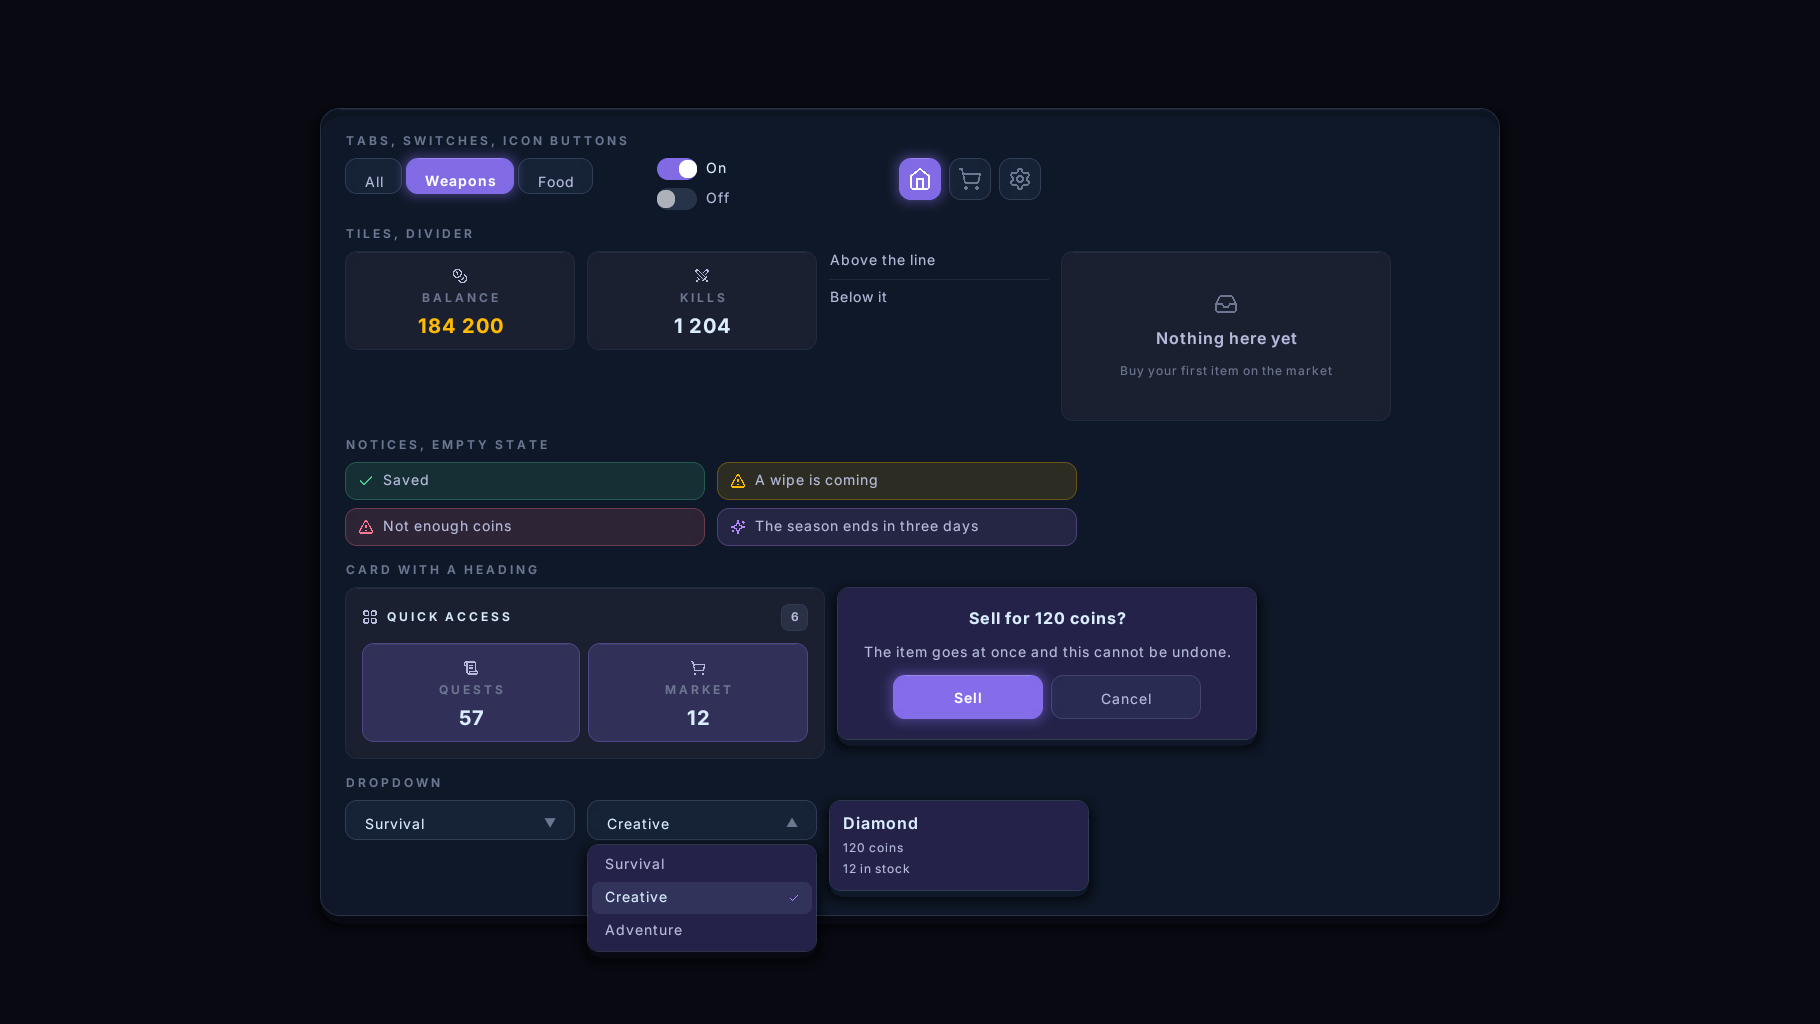
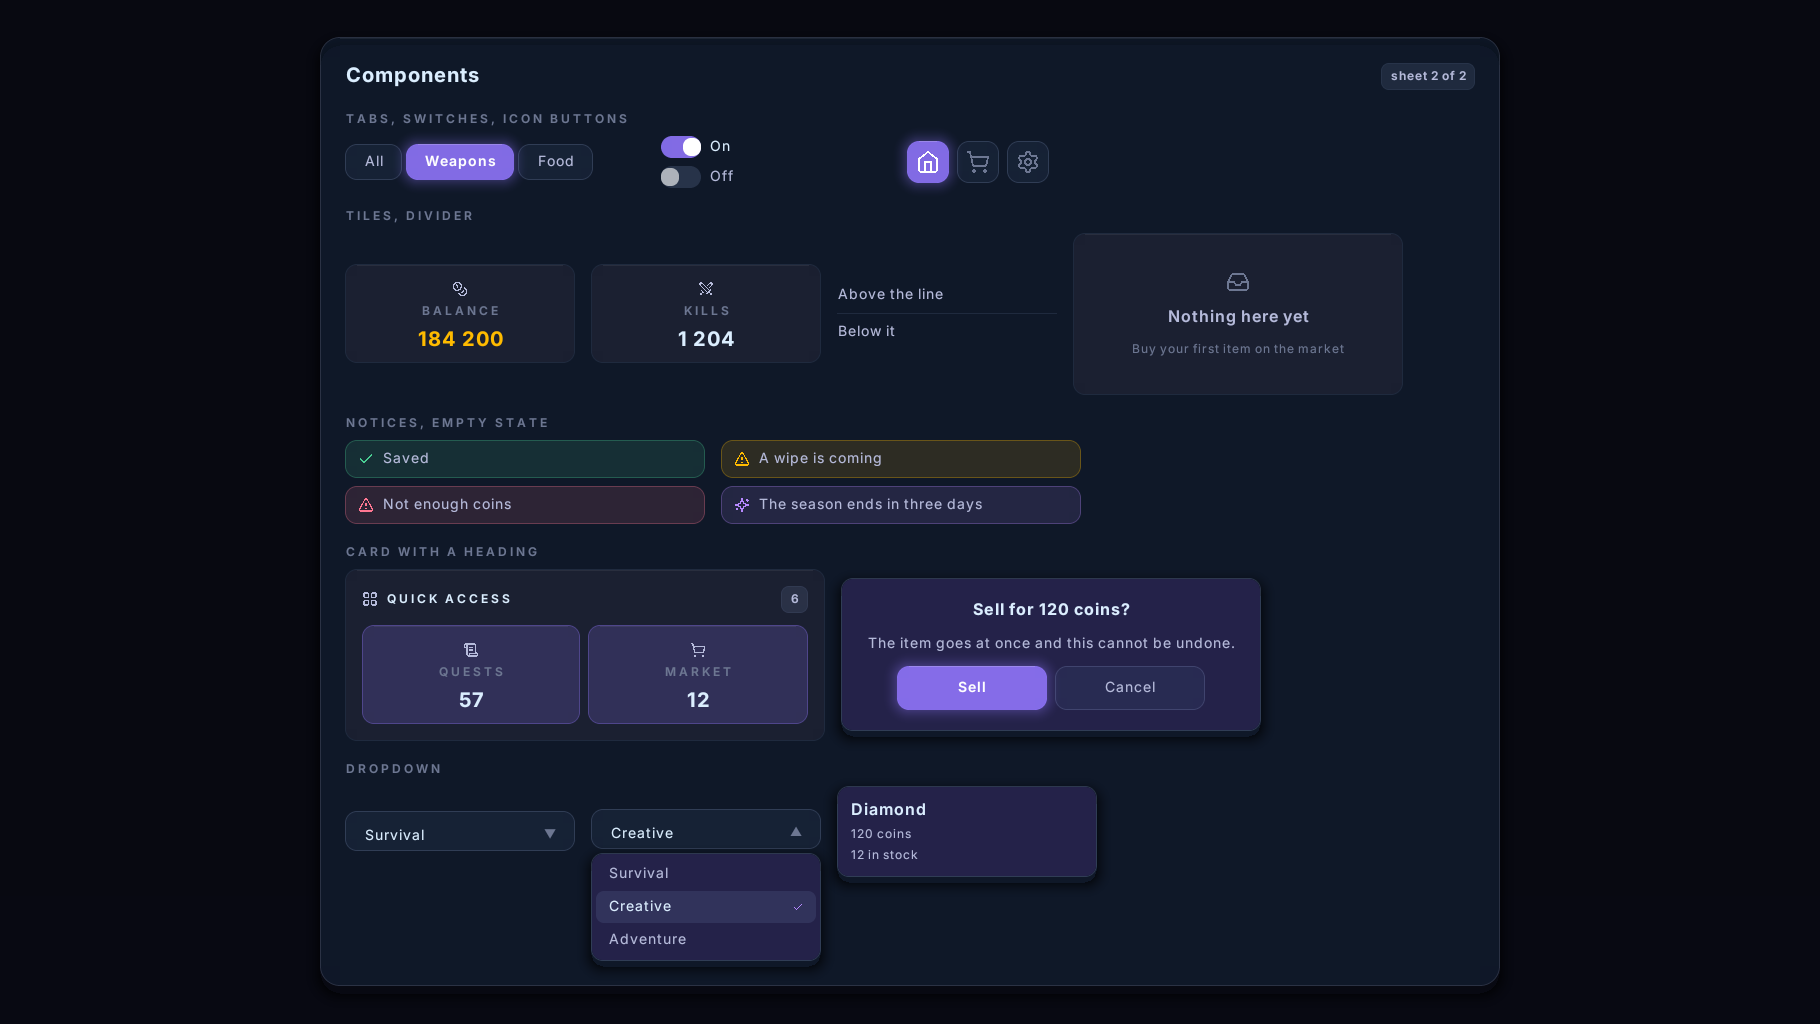
0.2.3 — captions that sit in the middle of their buttons
The same mistake the icon had, one widget over. A button is given a
height, so the vertical padding its style carries has nothing left to do
but fight it: the inner box comes out shorter than the line of text, and
the caption is pushed against the bottom edge. On a 36-unit tab that is
eighteen units of air above the word and five below — which is what it
looked like. Buttons keep only the padding that still means something,
the one that decides how wide they are.

The sheet of components is a picture in the documentation, so it now says
what it is, its cells line up on their middles instead of hanging from
their tops, there is room between one group and the next, and the open
dropdown at the end of it stays inside the card.

And the repository reads as a product: the README shows both sheets and
the four themes side by side, and its description and topics are in
English like everything else.

diff --git a/src/test/kotlin/ru/voidrp/ui/StatesSheet.kt b/src/test/kotlin/ru/voidrp/ui/StatesSheet.kt
@@ -55,13 +55,24 @@ class StatesSheet(private val hover: String? = null, private val part: Int = 1) 
             Panel(
                 style = Theme.page,
                 width = Size.Fixed(1180),
-                gap = Theme.SPACE_4,
-                // Two sheets, not one: everything on a single page no longer fits the
-                // canvas, and a layout that does not fit is compressed — the gaps go
-                // first, so every control would be shown a little tighter than it really
-                // is. Exactly the thing this sheet exists to catch.
-                children = (if (part == 1) first() else second()).map { it },
+                // Room between one group and the next: a label belongs to what is under
+                // it, and at a smaller gap it reads as belonging to what is above.
+                gap = Theme.SPACE_5,
+                // Opened on its own in the documentation, the sheet should say what it is.
+                children = listOf(header()) + (if (part == 1) first() else second()),
             ),
+        ),
+    )
+
+    private fun header(): View = Panel(
+        direction = Direction.ROW,
+        width = Size.Fill,
+        align = Align.CENTER,
+        gap = Theme.SPACE_3,
+        children = listOf(
+            Text("Components", Theme.TEXT_H3, Theme.INK, TextFonts.Weight.BOLD, wrap = false),
+            Panel(width = Size.Fill),
+            chip(if (part == 1) "sheet 1 of 2" else "sheet 2 of 2"),
         ),
     )
 
@@ -242,6 +253,9 @@ class StatesSheet(private val hover: String? = null, private val part: Int = 1) 
                         Panel(width = Size.Fixed(230), children = listOf(select("m2", MODES, 1, true))),
                         Panel(width = Size.Fixed(300), children = listOf(tooltipPanel("Diamond", listOf("120 coins", "12 in stock")))),
                     ),
+                    // The open list stands over what follows it, and here nothing follows:
+                    // without this it would hang off the bottom of the card.
+                    ru.voidrp.ui.layout.Gap(64),
     )
 
     /**
@@ -269,6 +283,13 @@ class StatesSheet(private val hover: String? = null, private val part: Int = 1) 
         ),
     )
 
+    /**
+     * One labelled row of the sheet.
+     *
+     * The cells line up on their middles rather than their tops: a row holds a tall card
+     * next to a pair of chips, and hung from the top the chips read as an afterthought
+     * rather than as the other half of the row.
+     */
     private fun row(title: String, vararg cells: View): View = Panel(
         width = Size.Fill,
         gap = Theme.SPACE_2,
@@ -277,8 +298,8 @@ class StatesSheet(private val hover: String? = null, private val part: Int = 1) 
             Panel(
                 direction = Direction.ROW,
                 width = Size.Fill,
-                gap = Theme.SPACE_3,
-                align = Align.START,
+                gap = Theme.SPACE_4,
+                align = Align.CENTER,
                 children = cells.toList(),
             ),
         ),

diff --git a/src/main/kotlin/ru/voidrp/ui/widget/Widgets.kt b/src/main/kotlin/ru/voidrp/ui/widget/Widgets.kt
@@ -73,7 +73,14 @@ fun Page.button(
     width: Size = Size.Auto,
     height: Int = 44,
 ): View = Panel(
-    style = if (hovered == id) style.hover() else style,
+    // The height is given, so the style's vertical padding has nothing left to do but
+    // fight it: the inner box comes out shorter than the line of text, and the caption is
+    // pushed down against the bottom edge instead of sitting in the middle. Only the
+    // padding that still means something — the one that decides how wide the button is —
+    // is kept.
+    style = (if (hovered == id) style.hover() else style).let {
+        it.copy(padding = Insets(0, it.padding.right, 0, it.padding.left))
+    },
     width = width,
     height = Size.Fixed(height),
     justify = Justify.CENTER,
@@ -568,7 +575,7 @@ fun emptyState(
     gap = Theme.SPACE_3,
     align = Align.CENTER,
     justify = Justify.CENTER,
-    style = Style(padding = Insets.all(Theme.SPACE_6)),
+    style = Style(padding = Insets.symmetric(Theme.SPACE_5, Theme.SPACE_4)),
     children = buildList {
         add(Icon(icon, Theme.TEXT_H2, Theme.INK_DIM))
         add(Text(title, Theme.TEXT_LEAD, Theme.INK_SOFT, TextFonts.Weight.SEMIBOLD, align = TextAlign.CENTER))

diff --git a/README.md b/README.md
@@ -139,7 +139,8 @@ loads on a 1.21.6 server, which usually runs on 21.
 
 ## Components
 
-![Every control in every state](docs/states.png)
+![Components: buttons, tick boxes, sliders, progress bars, chips](docs/states.png)
+![Components: tabs, switches, tiles, notices, dialogs, dropdowns](docs/states-2.png)
 
 There is no need to build a button out of a panel and a label every time —
 `ru.voidrp.ui.widget` has them, and they all follow one rule: a function returns a `View`,
@@ -191,6 +192,18 @@ Both are built at startup, served from the built-in server, and need no configur
 the second one is not needed because everybody is on one version, `pack.legacy: false`
 saves a second of startup and a megabyte of disk. If you host the archives yourself, the
 second address is `pack.legacy-url`.
+
+## Four looks, one page
+
+| | |
+|---|---|
+| ![Midnight](docs/theme-midnight.png) | ![Daylight](docs/theme-daylight.png) |
+| **midnight** — near-black with violet, the default | **daylight** — a light theme |
+| ![Ember](docs/theme-ember.png) | ![Grove](docs/theme-grove.png) |
+| **ember** — warm dark | **grove** — dark green |
+
+The same page and the same code: the whole look is a dozen colours in `theme.yml`, and the
+jar carries these four to start from. See [theming](docs/theming.md).
 
 ## Responsive
 

diff --git a/CHANGELOG.md b/CHANGELOG.md
@@ -3,6 +3,17 @@
 Versions follow [semver](https://semver.org/). While the major is zero, breaking changes
 arrive with a minor bump and are named here outright.
 
+## 0.2.3
+
+- A button's caption sat low in it. The height is given, so the style's vertical padding had
+  nothing left to do but fight it: the inner box came out shorter than the line of text and
+  the caption was pushed against the bottom edge. Buttons keep only the padding that still
+  means something — the one that decides how wide they are.
+- The sheet of components says what it is, its cells line up on their middles rather than
+  their tops, and its open dropdown no longer hangs off the bottom of the card.
+- An empty state is a little less tall, which is what let the second sheet fit a 5:4 screen
+  again.
+
 ## 0.2.2
 
 - The pieces of one line sit on one baseline. A smaller span left at the same top edge
